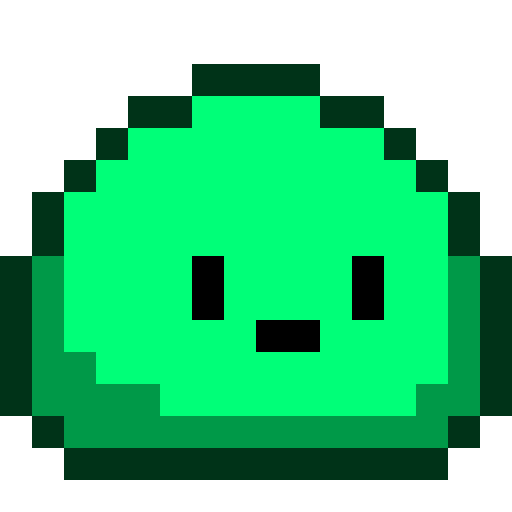
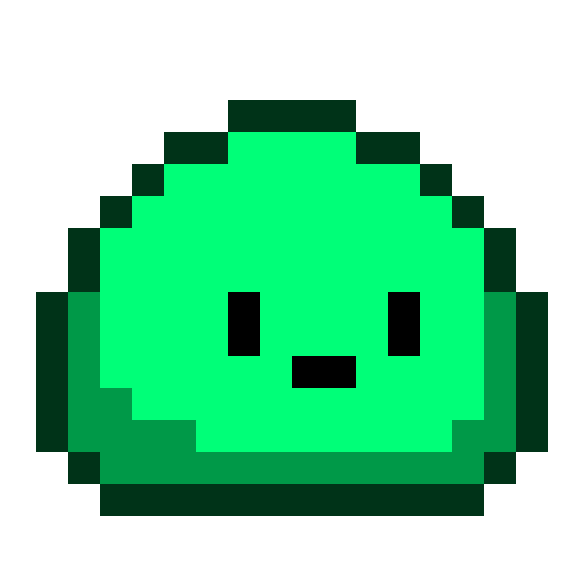
Added boss asset

diff --git a/src/client.ts b/src/client.ts
@@ -154,7 +154,8 @@ class Assets {
                             "yslime0.png", "yslime1.png",
                             "rslime0.png", "rslime1.png",
                             "pslime0.png", "pslime1.png",
-                            "dslime0.png", "dslime1.png"];
+                            "dslime0.png", "dslime1.png",
+                            "kslime0.png", "kslime1.png"];
         for (const name of imageNames) {
             const key = name.split(".")[0];
             const img = new Image();
@@ -286,11 +287,11 @@ function enemyPosy(pos: number) {
 function drawEnemies() {
     player1.enemies.forEach(enemy => {
         if (enemy.pos < 480)
-            ctx.drawImage(assets.getAnImage(enemy.type)!, enemyPosx(enemy.pos, 1) - 35, enemyPosy(enemy.pos) - 35, 70, 70);
+            ctx.drawImage(assets.getAnImage(enemy.type)!, enemyPosx(enemy.pos, 1) - tile * 0.5, enemyPosy(enemy.pos) - tile * 0.5, tile, tile);
         else {
             ctx.save();
             ctx.scale(-1, 1);
-            ctx.drawImage(assets.getAnImage(enemy.type)!, -1 * (enemyPosx(enemy.pos, 1) - 35) - 70, enemyPosy(enemy.pos) - 35, 70, 70);
+            ctx.drawImage(assets.getAnImage(enemy.type)!, -1 * (enemyPosx(enemy.pos, 1) - tile * 0.5) - 70, enemyPosy(enemy.pos) - tile * 0.5, tile, tile);
             ctx.restore();
         }
         ctx.fillStyle = "#eaeaea";
@@ -300,11 +301,11 @@ function drawEnemies() {
     });
     player2.enemies.forEach(enemy => {
         if (enemy.pos >= 480)
-            ctx.drawImage(assets.getAnImage(enemy.type)!, enemyPosx(enemy.pos, 2) - 35, enemyPosy(enemy.pos) - 35, 70, 70);
+            ctx.drawImage(assets.getAnImage(enemy.type)!, enemyPosx(enemy.pos, 2) - tile * 0.5, enemyPosy(enemy.pos) - tile * 0.5, tile, tile);
         else {
             ctx.save();
             ctx.scale(-1, 1);
-            ctx.drawImage(assets.getAnImage(enemy.type)!, -1 * (enemyPosx(enemy.pos, 2) - 35) - 70, enemyPosy(enemy.pos) - 35, 70, 70);
+            ctx.drawImage(assets.getAnImage(enemy.type)!, -1 * (enemyPosx(enemy.pos, 2) - tile * 0.5) - 70, enemyPosy(enemy.pos) - tile * 0.5, tile, tile);
             ctx.restore();
         }
         ctx.fillStyle = "#eaeaea";

diff --git a/public/client.js b/public/client.js
@@ -137,7 +137,8 @@ var Assets = /** @class */ (function () {
             "yslime0.png", "yslime1.png",
             "rslime0.png", "rslime1.png",
             "pslime0.png", "pslime1.png",
-            "dslime0.png", "dslime1.png"];
+            "dslime0.png", "dslime1.png",
+            "kslime0.png", "kslime1.png"];
         for (var _i = 0, imageNames_1 = imageNames; _i < imageNames_1.length; _i++) {
             var name_1 = imageNames_1[_i];
             var key = name_1.split(".")[0];
@@ -267,11 +268,11 @@ function enemyPosy(pos) {
 function drawEnemies() {
     player1.enemies.forEach(function (enemy) {
         if (enemy.pos < 480)
-            ctx.drawImage(assets.getAnImage(enemy.type), enemyPosx(enemy.pos, 1) - 35, enemyPosy(enemy.pos) - 35, 70, 70);
+            ctx.drawImage(assets.getAnImage(enemy.type), enemyPosx(enemy.pos, 1) - tile * 0.5, enemyPosy(enemy.pos) - tile * 0.5, tile, tile);
         else {
             ctx.save();
             ctx.scale(-1, 1);
-            ctx.drawImage(assets.getAnImage(enemy.type), -1 * (enemyPosx(enemy.pos, 1) - 35) - 70, enemyPosy(enemy.pos) - 35, 70, 70);
+            ctx.drawImage(assets.getAnImage(enemy.type), -1 * (enemyPosx(enemy.pos, 1) - tile * 0.5) - 70, enemyPosy(enemy.pos) - tile * 0.5, tile, tile);
             ctx.restore();
         }
         ctx.fillStyle = "#eaeaea";
@@ -281,11 +282,11 @@ function drawEnemies() {
     });
     player2.enemies.forEach(function (enemy) {
         if (enemy.pos >= 480)
-            ctx.drawImage(assets.getAnImage(enemy.type), enemyPosx(enemy.pos, 2) - 35, enemyPosy(enemy.pos) - 35, 70, 70);
+            ctx.drawImage(assets.getAnImage(enemy.type), enemyPosx(enemy.pos, 2) - tile * 0.5, enemyPosy(enemy.pos) - tile * 0.5, tile, tile);
         else {
             ctx.save();
             ctx.scale(-1, 1);
-            ctx.drawImage(assets.getAnImage(enemy.type), -1 * (enemyPosx(enemy.pos, 2) - 35) - 70, enemyPosy(enemy.pos) - 35, 70, 70);
+            ctx.drawImage(assets.getAnImage(enemy.type), -1 * (enemyPosx(enemy.pos, 2) - tile * 0.5) - 70, enemyPosy(enemy.pos) - tile * 0.5, tile, tile);
             ctx.restore();
         }
         ctx.fillStyle = "#eaeaea";

diff --git a/dist/client.js b/dist/client.js
@@ -132,7 +132,8 @@ class Assets {
             "yslime0.png", "yslime1.png",
             "rslime0.png", "rslime1.png",
             "pslime0.png", "pslime1.png",
-            "dslime0.png", "dslime1.png"];
+            "dslime0.png", "dslime1.png",
+            "kslime0.png", "kslime1.png"];
         for (const name of imageNames) {
             const key = name.split(".")[0];
             const img = new Image();
@@ -260,11 +261,11 @@ function enemyPosy(pos) {
 function drawEnemies() {
     player1.enemies.forEach(enemy => {
         if (enemy.pos < 480)
-            ctx.drawImage(assets.getAnImage(enemy.type), enemyPosx(enemy.pos, 1) - 35, enemyPosy(enemy.pos) - 35, 70, 70);
+            ctx.drawImage(assets.getAnImage(enemy.type), enemyPosx(enemy.pos, 1) - tile * 0.5, enemyPosy(enemy.pos) - tile * 0.5, tile, tile);
         else {
             ctx.save();
             ctx.scale(-1, 1);
-            ctx.drawImage(assets.getAnImage(enemy.type), -1 * (enemyPosx(enemy.pos, 1) - 35) - 70, enemyPosy(enemy.pos) - 35, 70, 70);
+            ctx.drawImage(assets.getAnImage(enemy.type), -1 * (enemyPosx(enemy.pos, 1) - tile * 0.5) - 70, enemyPosy(enemy.pos) - tile * 0.5, tile, tile);
             ctx.restore();
         }
         ctx.fillStyle = "#eaeaea";
@@ -274,11 +275,11 @@ function drawEnemies() {
     });
     player2.enemies.forEach(enemy => {
         if (enemy.pos >= 480)
-            ctx.drawImage(assets.getAnImage(enemy.type), enemyPosx(enemy.pos, 2) - 35, enemyPosy(enemy.pos) - 35, 70, 70);
+            ctx.drawImage(assets.getAnImage(enemy.type), enemyPosx(enemy.pos, 2) - tile * 0.5, enemyPosy(enemy.pos) - tile * 0.5, tile, tile);
         else {
             ctx.save();
             ctx.scale(-1, 1);
-            ctx.drawImage(assets.getAnImage(enemy.type), -1 * (enemyPosx(enemy.pos, 2) - 35) - 70, enemyPosy(enemy.pos) - 35, 70, 70);
+            ctx.drawImage(assets.getAnImage(enemy.type), -1 * (enemyPosx(enemy.pos, 2) - tile * 0.5) - 70, enemyPosy(enemy.pos) - tile * 0.5, tile, tile);
             ctx.restore();
         }
         ctx.fillStyle = "#eaeaea";

diff --git a/src/server.ts b/src/server.ts
@@ -239,7 +239,8 @@ function enemyLoop (player1: Player, player2: Player, game: Game) {
         if (enemy.hp <= 0) {
             enemy.alive = false;
             player1.mana += 10;
-            player2.addEnemy(enemyGenerator(game));
+            if (enemy.damages != 2)
+                player2.addEnemy(enemyGenerator(game));
         }
     });
     player1.clearDeadEnemies();
@@ -253,17 +254,12 @@ function enemyLoop (player1: Player, player2: Player, game: Game) {
         if (enemy.hp <= 0) {
             enemy.alive = false;
             player2.mana += 10;
-            player1.addEnemy(enemyGenerator(game));
+            if (enemy.damages != 2)
+                player1.addEnemy(enemyGenerator(game));
         }
     });
     player2.clearDeadEnemies();
 }
-
-// function bossLoop(player1: Player, player2: Player) {
-//     let
-//     player1.enemies.splice(0, player1.enemies.length);
-//     player2.enemies.splice(0, player2.enemies.length);
-// }
 
 function gameLoop(player1: Player, player2: Player, game: Game) {
     if (game.start) {
@@ -272,10 +268,12 @@ function gameLoop(player1: Player, player2: Player, game: Game) {
             game.boss = false;
         } else {
             if (!game.boss) {
+                const p1Board = player1.enemies.length;
+                const p2Board = player2.enemies.length;
                 player1.enemies.splice(0, player1.enemies.length);
                 player2.enemies.splice(0, player2.enemies.length);
-                player1.enemies.push(new Enemy("bslime", 1000, 1, 2)); // Boss here
-                player2.enemies.push(new Enemy("bslime", 1000, 1, 2));
+                player1.enemies.push(new Enemy("kslime", 1000 + 100 * p1Board, 1, 2)); // Boss here
+                player2.enemies.push(new Enemy("kslime", 1000 + 100 * p2Board, 1, 2));
             }
             enemyLoop(player1, player2, game);
             if (player1.enemies.length === 0 && player2.enemies.length === 0) {

diff --git a/dist/server.js b/dist/server.js
@@ -209,7 +209,8 @@ function enemyLoop(player1, player2, game) {
         if (enemy.hp <= 0) {
             enemy.alive = false;
             player1.mana += 10;
-            player2.addEnemy(enemyGenerator(game));
+            if (enemy.damages != 2)
+                player2.addEnemy(enemyGenerator(game));
         }
     });
     player1.clearDeadEnemies();
@@ -223,16 +224,12 @@ function enemyLoop(player1, player2, game) {
         if (enemy.hp <= 0) {
             enemy.alive = false;
             player2.mana += 10;
-            player1.addEnemy(enemyGenerator(game));
+            if (enemy.damages != 2)
+                player1.addEnemy(enemyGenerator(game));
         }
     });
     player2.clearDeadEnemies();
 }
-// function bossLoop(player1: Player, player2: Player) {
-//     let
-//     player1.enemies.splice(0, player1.enemies.length);
-//     player2.enemies.splice(0, player2.enemies.length);
-// }
 function gameLoop(player1, player2, game) {
     if (game.start) {
         if (game.timer.timeLeft !== 0) {
@@ -241,10 +238,12 @@ function gameLoop(player1, player2, game) {
         }
         else {
             if (!game.boss) {
+                const p1Board = player1.enemies.length;
+                const p2Board = player2.enemies.length;
                 player1.enemies.splice(0, player1.enemies.length);
                 player2.enemies.splice(0, player2.enemies.length);
-                player1.enemies.push(new Enemy("bslime", 1000, 1, 2)); // Boss here
-                player2.enemies.push(new Enemy("bslime", 1000, 1, 2));
+                player1.enemies.push(new Enemy("kslime", 1000 + 100 * p1Board, 1, 2)); // Boss here
+                player2.enemies.push(new Enemy("kslime", 1000 + 100 * p2Board, 1, 2));
             }
             enemyLoop(player1, player2, game);
             if (player1.enemies.length === 0 && player2.enemies.length === 0) {
